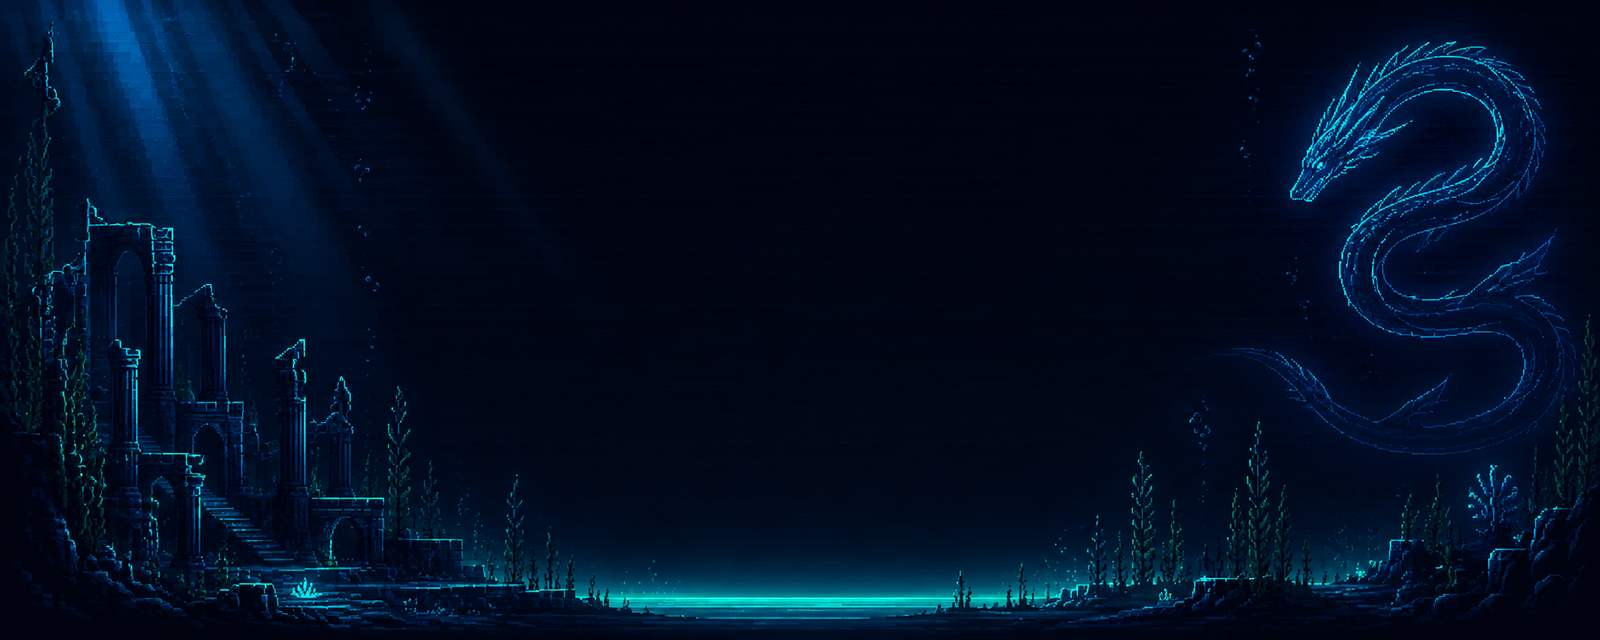
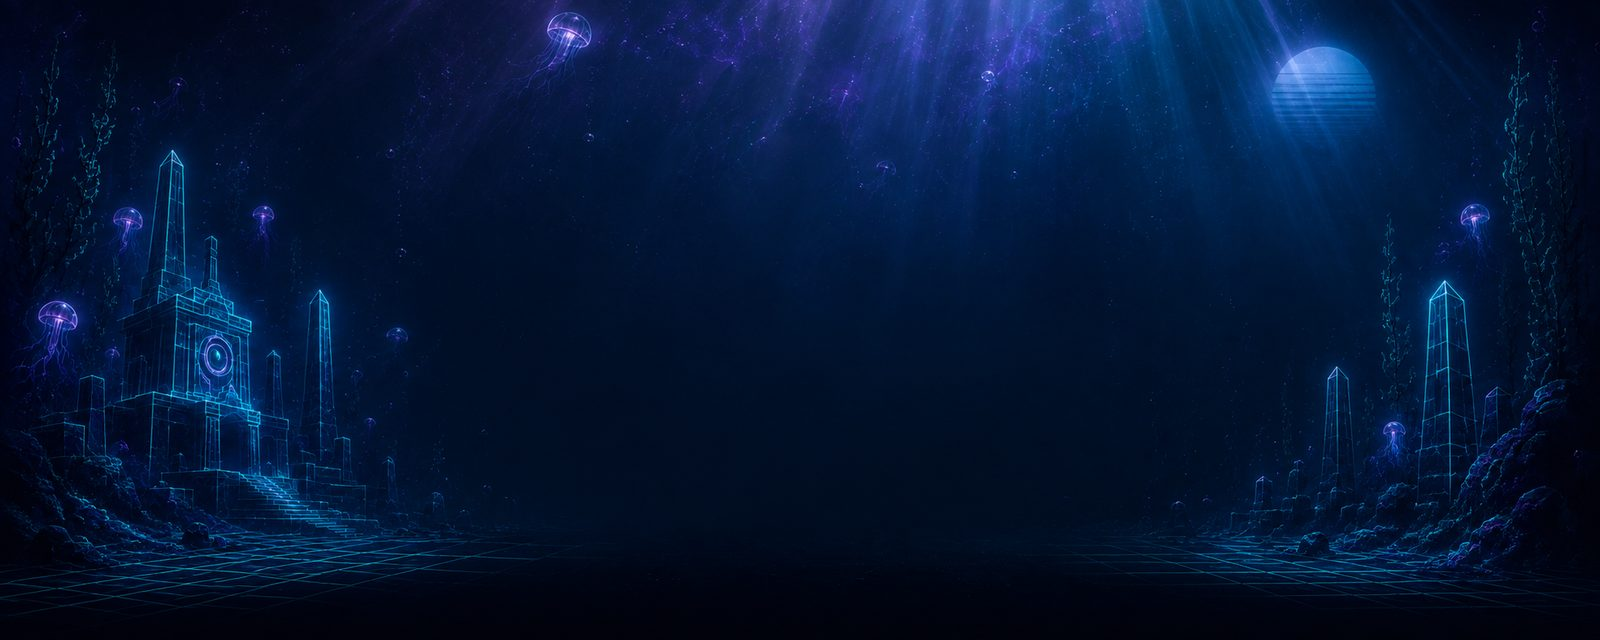
Seedrache → „Eldritch": neue Deep-Sea-Art + Umbenennung (IDs bleiben seedrache)
bf_seedrache + deck_seedrache auf Eldritch-Deep-Sea-Look (Cthulhu-artiges
Leuchtwesen, versunkener Tempel, Quallen, Neon-Grid-Boden). Anzeigename
„Seedrache" → „Eldritch" (Deck + BF), Emblem 🌊 → 🐙, a2 von Teal auf Violett
(#8a6cff, Quallen-Akzent). Pack-/Deck-IDs (pack:seedrache) unverändert → kein
Besitz-Bruch. 1000 Tests grün.

Claude-Session: https://claude.ai/code/session_019AHmCns7mZqdQHxExY4Jbx

diff --git a/src/game/cosmetics.js b/src/game/cosmetics.js
@@ -68,7 +68,7 @@ export const DECK_DEFS = {
   // #312 DP-Kauf-Packs (je 10 DP, Preis in themes.js):
   deck_arcade:     { id: "deck_arcade",     name: "Arcade",     unlock: { kind: "buy", ownKey: "pack:arcade" } },
   deck_polarlicht: { id: "deck_polarlicht", name: "Polarlicht", unlock: { kind: "buy", ownKey: "pack:polarlicht" } },
-  deck_seedrache:  { id: "deck_seedrache",  name: "Seedrache",  unlock: { kind: "buy", ownKey: "pack:seedrache" } },
+  deck_seedrache:  { id: "deck_seedrache",  name: "Eldritch",   unlock: { kind: "buy", ownKey: "pack:seedrache" } },
 };
 
 export const BATTLEFIELD_DEFS = {
@@ -107,7 +107,7 @@ export const BATTLEFIELD_DEFS = {
   // #312 DP-Kauf-Packs:
   bf_arcade:     { id: "bf_arcade",     name: "Arcade · Battlefield",     unlock: { kind: "buy", ownKey: "pack:arcade" } },
   bf_polarlicht: { id: "bf_polarlicht", name: "Polarlicht · Battlefield", unlock: { kind: "buy", ownKey: "pack:polarlicht" } },
-  bf_seedrache:  { id: "bf_seedrache",  name: "Seedrache · Battlefield",  unlock: { kind: "buy", ownKey: "pack:seedrache" } },
+  bf_seedrache:  { id: "bf_seedrache",  name: "Eldritch · Battlefield",   unlock: { kind: "buy", ownKey: "pack:seedrache" } },
 };
 
 // Tausender-Punkte ohne ICU-Abhängigkeit (node-Tests deterministisch): 10000000 → "10.000.000".

diff --git a/src/ui/cosmeticAssets.js b/src/ui/cosmeticAssets.js
@@ -122,7 +122,7 @@ import arcadeFront     from "../assets/cards/decks_player/deck_arcade/front.webp
 import arcadeBack      from "../assets/cards/decks_player/deck_arcade/back.webp";
 import polarlichtFront from "../assets/cards/decks_player/deck_polarlicht/front.webp"; // Polarlicht
 import polarlichtBack  from "../assets/cards/decks_player/deck_polarlicht/back.webp";
-import seedracheFront  from "../assets/cards/decks_player/deck_seedrache/front.webp";  // Seedrache
+import seedracheFront  from "../assets/cards/decks_player/deck_seedrache/front.webp";  // Eldritch (ehem. Seedrache)
 import seedracheBack   from "../assets/cards/decks_player/deck_seedrache/back.webp";
 import bfArcadeDesktop     from "../assets/battlefields/bf_arcade/desktop.jpg";
 import bfArcadeMobile      from "../assets/battlefields/bf_arcade/mobile.jpg";

diff --git a/src/game/themes.js b/src/game/themes.js
@@ -203,7 +203,7 @@ export const THEME_DEFS = {
     deckId: "deck_arcade",     bfId: "bf_arcade",     els: ["deck", "bf"] },
   polarlicht: { id: "polarlicht", name: "Polarlicht", emblem: "🌌", kind: "buy", price: 10, a1: "#7cc6ff", a2: "#4fe6b0",
     deckId: "deck_polarlicht", bfId: "bf_polarlicht", els: ["deck", "bf"] },
-  seedrache:  { id: "seedrache",  name: "Seedrache",  emblem: "🌊", kind: "buy", price: 10, a1: "#38b0ff", a2: "#39d6b8",
+  seedrache:  { id: "seedrache",  name: "Eldritch",   emblem: "🐙", kind: "buy", price: 10, a1: "#38b0ff", a2: "#8a6cff",
     deckId: "deck_seedrache",  bfId: "bf_seedrache",  els: ["deck", "bf"] },
 };
 
